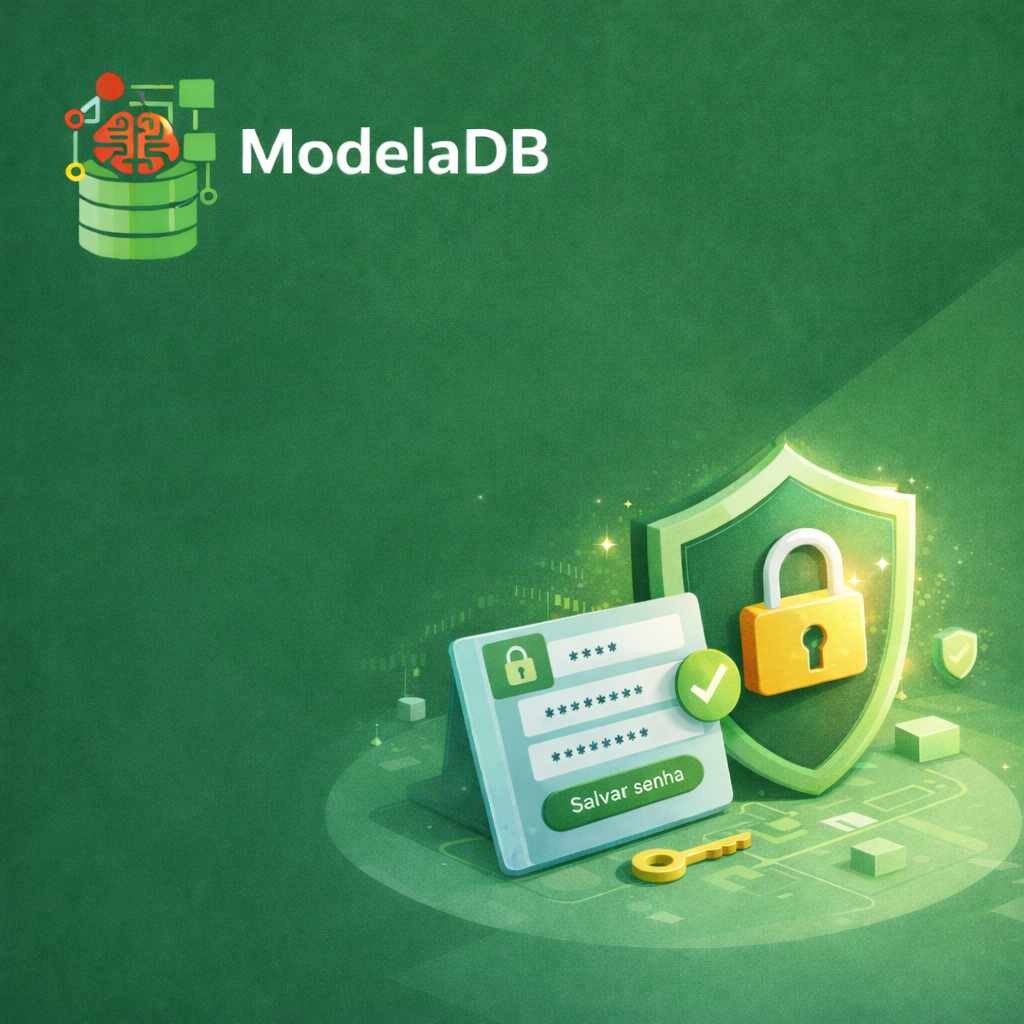
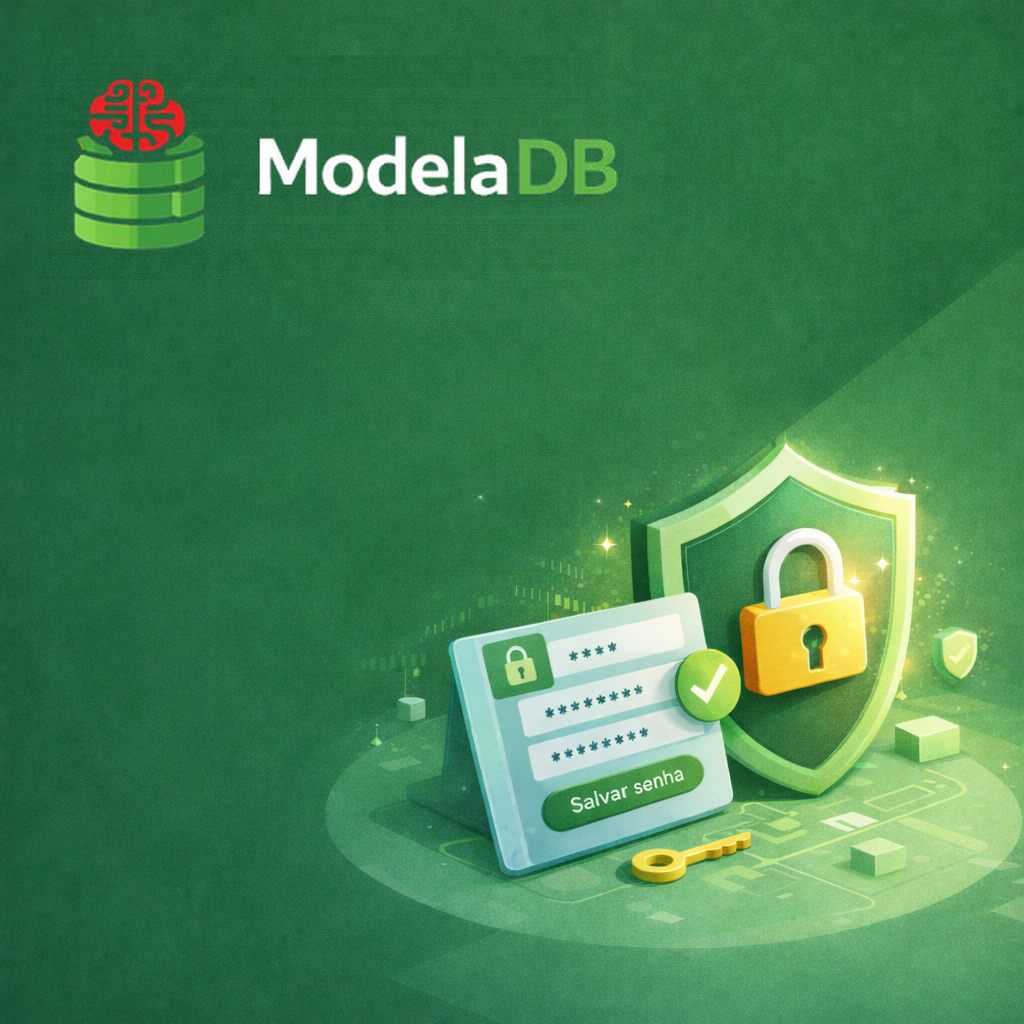
ajustes de layout

Changed region(s): [[0.0625, 0.0625, 0.625, 0.2812]]

diff --git a/src/components/LayoutComponents/AuthLayout.tsx b/src/components/LayoutComponents/AuthLayout.tsx
@@ -8,23 +8,27 @@ type AuthLayoutProps = {
 
 export function AuthLayout({ children, background = DefaultBackground }: AuthLayoutProps) {
   return (
-    <Layout style={{ height: "100vh" }}>
-      <Row style={{ height: "100vh" }}>
+    <Layout style={{ minHeight: "100vh" }}>
+      <Row align="stretch" style={{ minHeight: "100vh" }}>
         <Col
           xs={0}
           md={12}
           style={{
-            height: "100%",
             padding: "50px 0 50px 50px",
             boxSizing: "border-box",
+            display: "flex",
           }}
         >
-          <img
-            src={background}
-            alt="Ilustração"
+          <div
+            role="img"
+            aria-label="Ilustração"
             style={{
-              width: "100%",
-              height: "100%",
+              flex: 1,
+              backgroundImage: `url(${background})`,
+              backgroundSize: "cover",
+              backgroundPosition: "left top",
+              backgroundRepeat: "no-repeat",
+              backgroundColor: "#2e6b3a",
               borderRadius: "12px 0 0 12px",
             }}
           />
@@ -37,18 +41,18 @@ export function AuthLayout({ children, background = DefaultBackground }: AuthLay
             padding: "50px 50px 50px 0",
             background: "#f6f9f7",
             display: "flex",
-            justifyContent: "center",
-            alignItems: "center",
             boxSizing: "border-box",
           }}
         >
           <Card
             style={{
-              width: "100%",
-              minHeight: "100%",
+              flex: 1,
               borderRadius: "0 12px 12px 0",
               padding: "40px",
               boxShadow: "0 10px 30px rgba(0,0,0,0.08)",
+              display: "flex",
+              flexDirection: "column",
+              justifyContent: "center",
             }}
           >
             {children}
